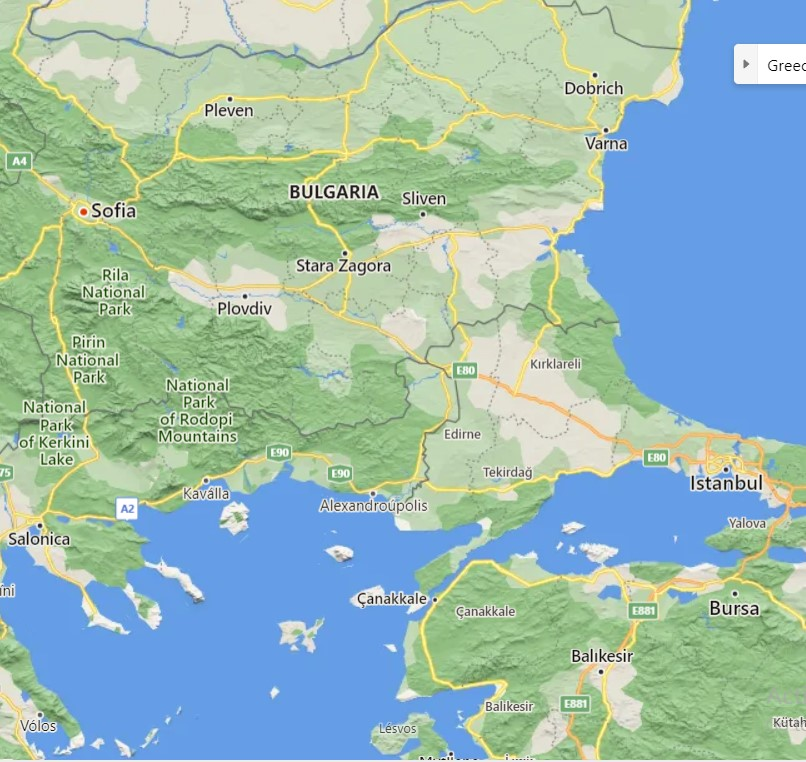
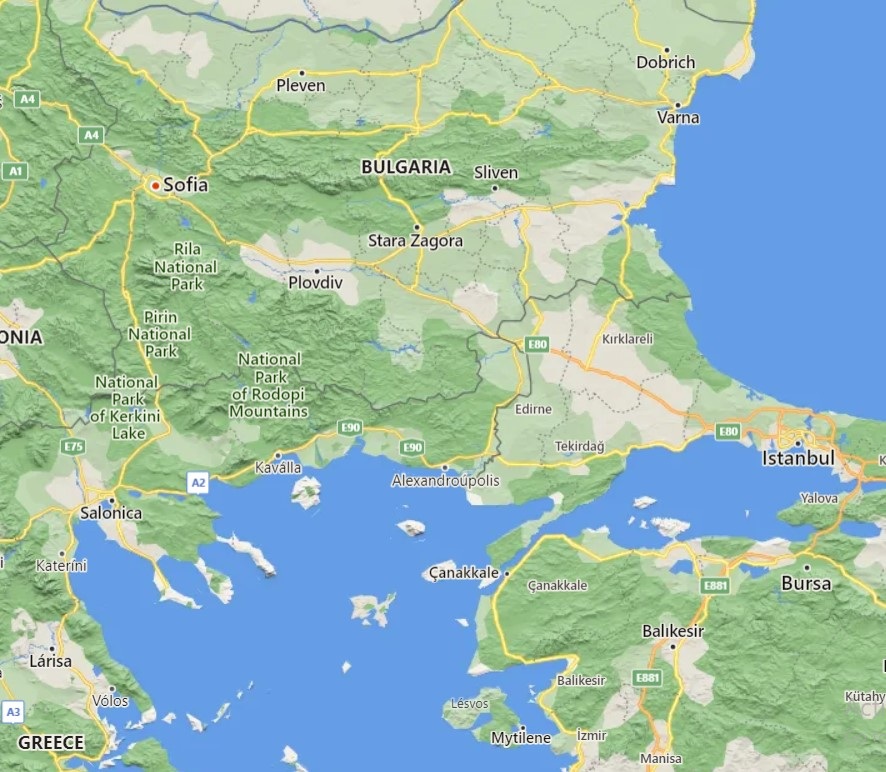
Fixed The Images

diff --git a/index.html b/index.html
@@ -173,10 +173,10 @@
         </div>
 
         <div class="location-image">
-            <img src="/images/map.png" alt="">
+            <img src="/images/Screenshot 2022-03-16 204852.png-overlay.png" alt="">
         </div>
         <div class="overlay-image">
-            <img src="images/Screenshot 2022-03-16 204852.png.jpg" alt="A google Location Map">
+            <img src="images/Un2titled.png" alt="A google Location Map">
         </div>
 
 

diff --git a/css/mystyle.css b/css/mystyle.css
@@ -687,8 +687,8 @@ img {
     z-index: 1;
     width: 20%;
     height: 20%;
-    top: 80px;
-    right: 380px;
+    top: 20px;
+    right: 430px;
     opacity: 0.8;
 }
 
